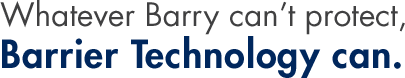
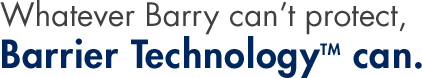
Landing page Barrier Tech - copy revisions

diff --git a/landing-barriertech/css/styles.css b/landing-barriertech/css/styles.css
@@ -9,14 +9,14 @@
 
 .landing-barriertech .section-intro { height: 260px; padding-top: 130px; background: url(../images/bg-repeat-brown.png) repeat-x; }
 .landing-barriertech .section-description { height: 300px; padding-top: 55px; color: #00275d; background: #fbfbfb url(../images/bg-tinwashwear.jpg) no-repeat 50% 0; }
-.landing-barriertech .section-tech { height: 348px; padding-top: 40px; background: url(../images/bg-repeat-brown.png) repeat-x 0 -2px; }
+.landing-barriertech .section-tech { height: 300px; padding-top: 90px; background: url(../images/bg-repeat-brown.png) repeat-x 0 -2px; }
 .landing-barriertech .section-3col { padding-top: 40px; }
 
 a.find-out-more { display: block; width: 170px; height: 35px; margin-top: 40px; background: #00275d url(../images/btn-findoutmore.png) no-repeat 50% 50%; }
 a:hover { opacity: 0.85; }
 
 .section-intro .inner { width: 420px; padding-left: 552px; }
-.section-intro h2 { width: 405px; height: 78px; margin: 0 0 30px; background: url(../images/text-intro-heading.png) no-repeat; }
+.section-intro h2 { width: 422px; height: 78px; margin: 0 0 30px; background: url(../images/text-intro-heading.png) no-repeat; }
 .section-intro h4 { width: 380px; height: 44px; background: url(../images/text-intro-subhead.png) no-repeat; }
 .section-intro .youtube { width:595px; height: 312px; position: absolute; top: -75px; left: -45px; background: url(../images/feature-drop-shadow.png) no-repeat 0 2px; }
 .section-intro .youtube iframe { margin-left: 37px; border: 3px solid #fff; }
@@ -27,15 +27,15 @@ a:hover { opacity: 0.85; }
 
 .section-tech .inner { width: 520px; padding-right: 452px; }
 .section-tech h2 { width: 429px; height: 56px; margin: 0 0 25px; background: url(../images/text-tech-heading.png) no-repeat; }
-.section-tech p { line-height: ; margin-bottom: 1em; }
-.section-tech small { z-index: 10; position: relative; display: block; width: 575px;  margin-top: 40px; font-size: 10px; color: #7e7e7e; }
-.section-tech .figure-polymer { z-index: 1; position: absolute; right: -170px; top: -34px; height: 405px; overflow: hidden; }
+.section-tech p { line-height: 2.2; margin-bottom: 1em; }
+.section-tech .figure-polymer { z-index: 1; position: absolute; right: -170px; top: -84px; height: 405px; overflow: hidden; }
 
 .section-3col ul.columns { margin: 0; padding: 0; list-style-type: none; }
 .section-3col .columns li { width: 319px; margin-right: 7px; float: left;  }
 .section-3col .columns li.last { margin-right: 0; }
 .section-3col .columns img { margin-bottom: 20px; -webkit-box-shadow:  3px 3px 12px 0px rgba(0, 0, 0, .25); box-shadow: 3px 3px 12px 0px rgba(0, 0, 0, .25); }
 .section-3col .columns p { padding-right: 30px; margin-bottom: 1em; }
+.section-3col .columns small { display:block; margin-top: 20px; font-size: 10px; line-height: 1.4; color: #7e7e7e; }
 .section-3col h2 { height: 49px; margin-bottom: 25px; }
 .section-3col h2.trusted { background: url(../images/text-heading-trusted.png) no-repeat; }
 .section-3col h2.technology { background: url(../images/text-heading-technology.png) no-repeat; }
